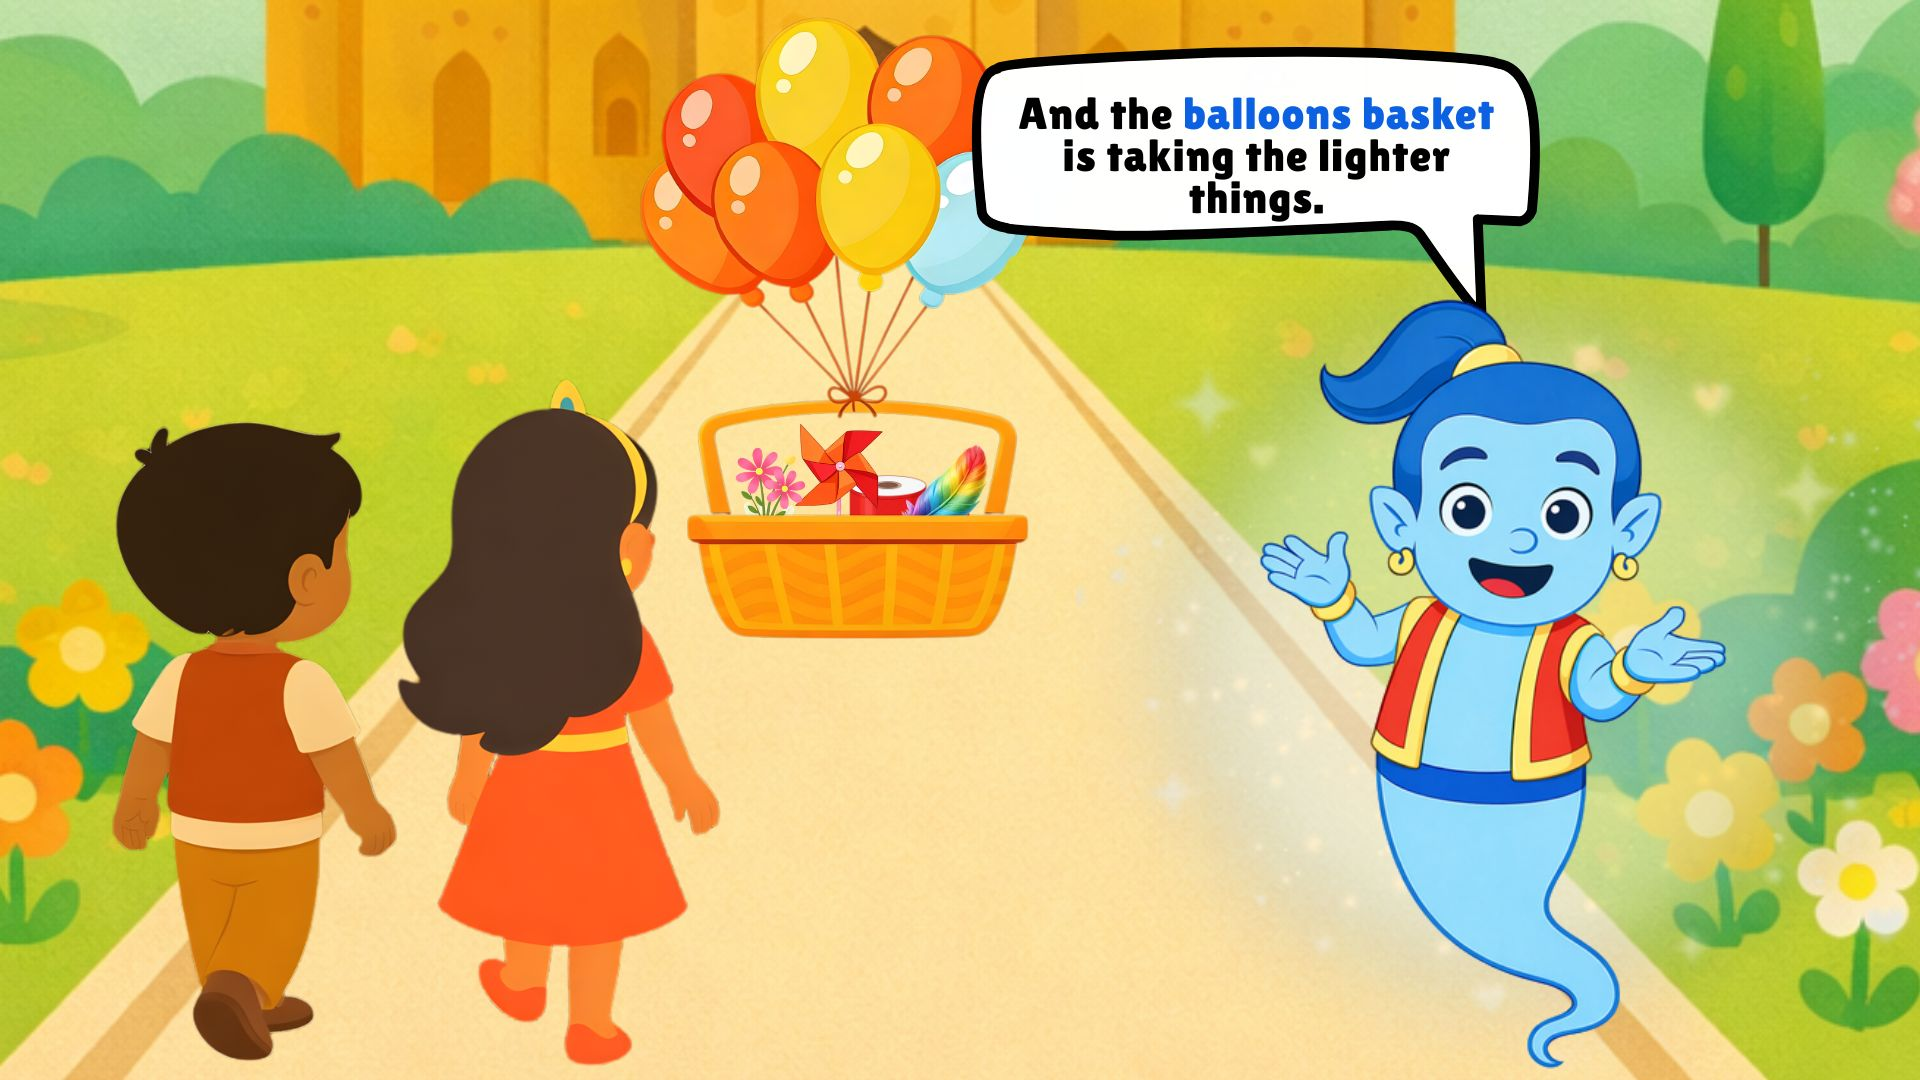
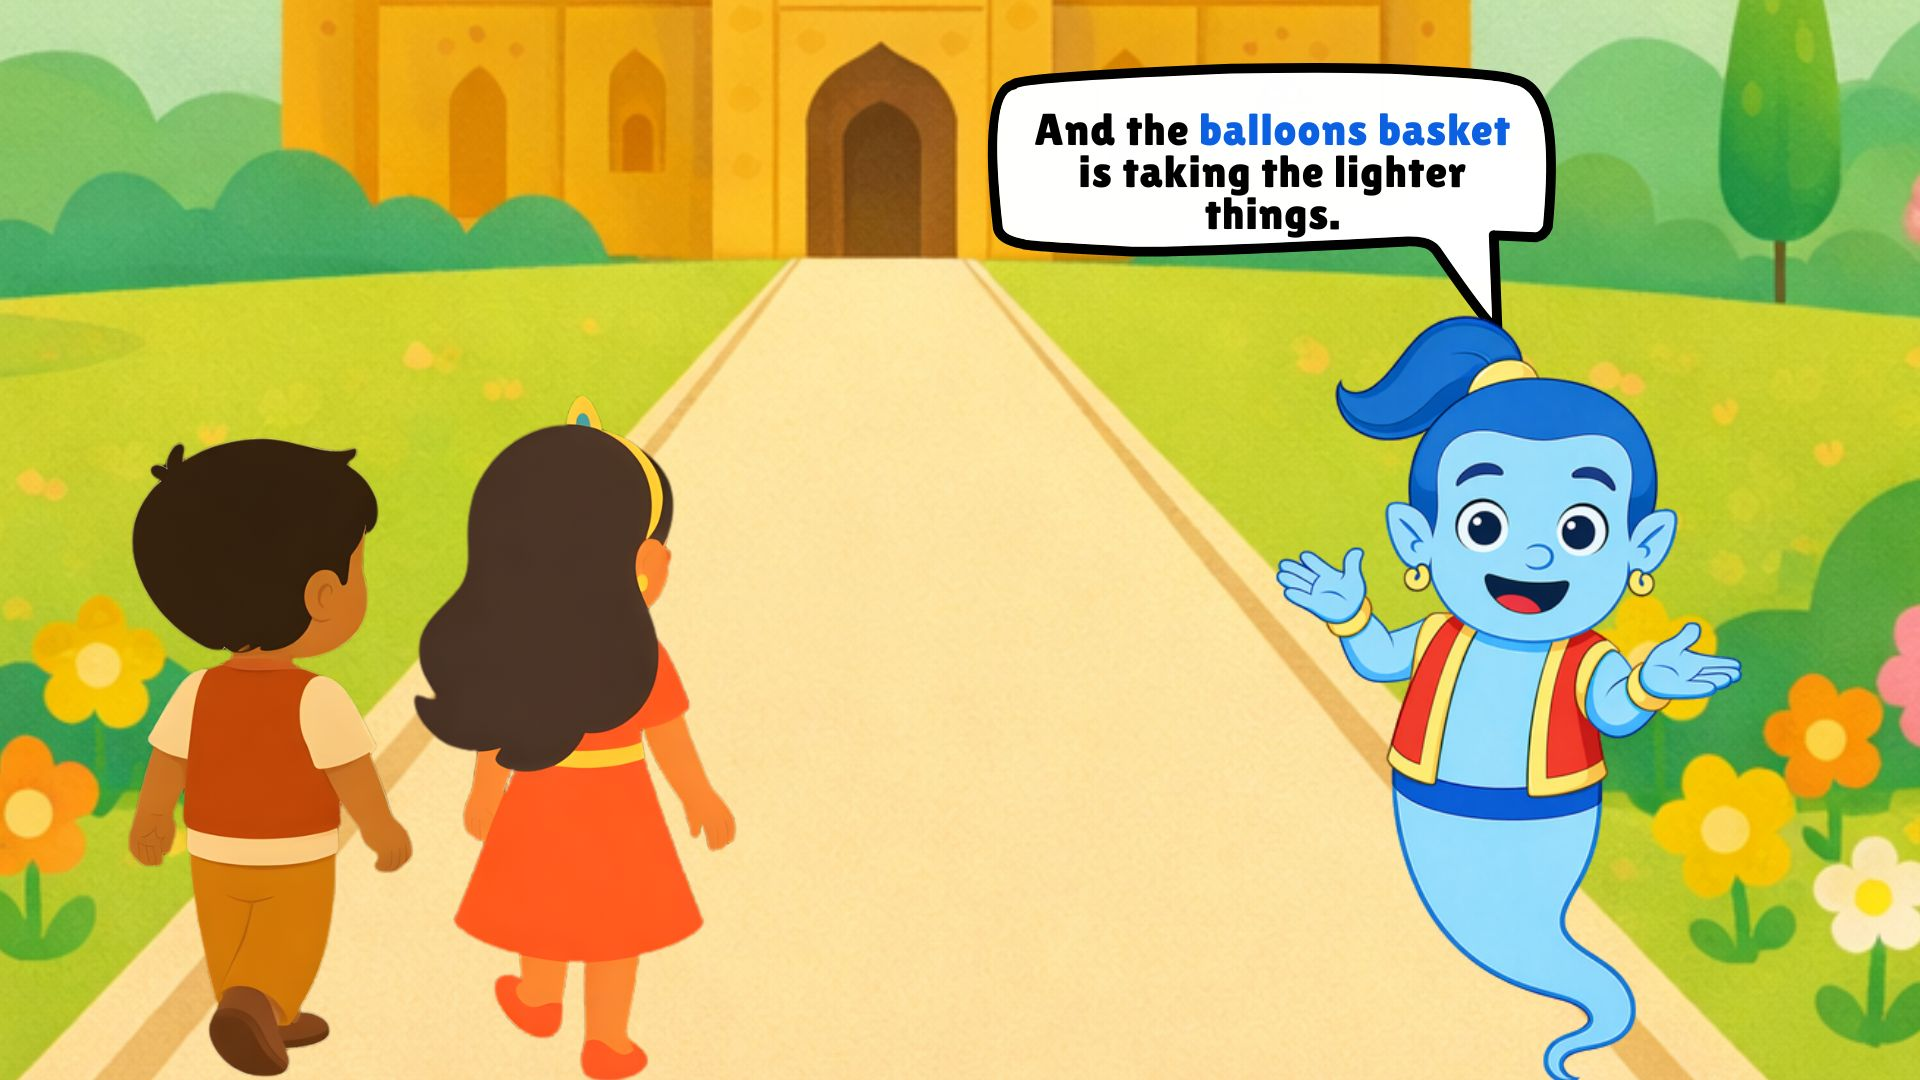
feat: add wagon ride and balloon float animations with corresponding styles and media assets

diff --git a/index.html b/index.html
@@ -364,6 +364,202 @@
       }
     }
 
+    .wagon-ride-layer {
+      position: absolute;
+      inset: 0;
+      z-index: 9;
+      overflow: hidden;
+      pointer-events: none;
+      opacity: 0;
+    }
+
+    .wagon-ride-scene.is-wagon-active .wagon-ride-layer {
+      opacity: 1;
+    }
+
+    .wagon-path-cleanup {
+      position: absolute;
+      display: block;
+      pointer-events: none;
+      z-index: 1;
+      opacity: .9;
+      background:
+        radial-gradient(ellipse at 50% 18%, rgba(255, 241, 177, .9), rgba(255, 224, 135, .56) 62%, rgba(255, 224, 135, 0) 100%),
+        linear-gradient(180deg, rgba(255, 233, 161, .68), rgba(244, 202, 108, .42));
+      filter: blur(8px);
+    }
+
+    .wagon-handle-cleanup {
+      left: 47.1%;
+      top: 8%;
+      width: 4.2%;
+      height: 36%;
+      border-radius: 999px;
+    }
+
+    .wagon-cart-cleanup {
+      left: 34.3%;
+      top: 28%;
+      width: 31.5%;
+      height: 31%;
+      border-radius: 46% 46% 34% 34%;
+    }
+
+    .wagon-ride-img {
+      position: absolute;
+      inset: 0;
+      z-index: 2;
+      width: 100%;
+      height: 100%;
+      object-fit: cover;
+      object-position: center;
+      opacity: 1;
+      transform: translate3d(0, 0, 0) scale(1);
+      transform-origin: 50% 13%;
+      will-change: transform, opacity, filter;
+      animation: none;
+    }
+
+    .wagon-ride-scene.is-wagon-active .wagon-ride-img {
+      animation: wagonPathRide 7.2s cubic-bezier(.38, .02, .28, 1) forwards;
+    }
+
+    @keyframes wagonPathRide {
+      0% {
+        opacity: 1;
+        filter: drop-shadow(0 12px 10px rgba(86, 50, 0, .18));
+        transform: translate3d(0, 0, 0) scale(1);
+      }
+
+      18% {
+        opacity: 1;
+        transform: translate3d(.2%, -1.8%, 0) scale(.92);
+      }
+
+      58% {
+        opacity: 1;
+        filter: drop-shadow(0 8px 7px rgba(86, 50, 0, .12));
+        transform: translate3d(.3%, -7%, 0) scale(.52);
+      }
+
+      82% {
+        opacity: .72;
+        transform: translate3d(.2%, -11%, 0) scale(.28);
+      }
+
+      100% {
+        opacity: 0;
+        filter: drop-shadow(0 0 0 rgba(86, 50, 0, 0));
+        transform: translate3d(.1%, -13%, 0) scale(.16);
+      }
+    }
+
+    @media (prefers-reduced-motion: reduce) {
+      .wagon-ride-scene.is-wagon-active .wagon-ride-img {
+        animation-duration: .01ms;
+      }
+    }
+
+    .balloon-float-layer {
+      position: absolute;
+      inset: 0;
+      z-index: 9;
+      overflow: hidden;
+      pointer-events: none;
+      opacity: 0;
+    }
+
+    .balloon-float-scene.is-balloon-active .balloon-float-layer {
+      opacity: 1;
+    }
+
+    .balloon-float-cleanup {
+      position: absolute;
+      display: block;
+      z-index: 1;
+      pointer-events: none;
+      opacity: .9;
+      filter: blur(10px);
+    }
+
+    .balloon-float-cleanup.castle {
+      left: 31.8%;
+      top: 1.5%;
+      width: 32.5%;
+      height: 38%;
+      border-radius: 48%;
+      background:
+        radial-gradient(ellipse at 52% 22%, rgba(247, 183, 38, .64), rgba(218, 151, 31, .48) 48%, rgba(218, 151, 31, 0) 78%),
+        linear-gradient(90deg, rgba(121, 195, 93, .18), rgba(236, 172, 45, .42) 28%, rgba(239, 177, 47, .46) 68%, rgba(106, 184, 91, .18));
+    }
+
+    .balloon-float-cleanup.path {
+      left: 35.4%;
+      top: 33%;
+      width: 27.5%;
+      height: 32%;
+      border-radius: 46% 46% 35% 35%;
+      background:
+        radial-gradient(ellipse at 50% 38%, rgba(255, 235, 169, .92), rgba(255, 218, 122, .55) 62%, rgba(255, 218, 122, 0) 100%),
+        linear-gradient(180deg, rgba(255, 238, 181, .72), rgba(246, 203, 105, .38));
+      filter: blur(8px);
+    }
+
+    .balloon-float-img {
+      position: absolute;
+      inset: 0;
+      z-index: 2;
+      width: 100%;
+      height: 100%;
+      object-fit: cover;
+      object-position: center;
+      opacity: 1;
+      transform: translate3d(0, 0, 0) scale(1) rotate(0deg);
+      transform-origin: 50% 42%;
+      will-change: transform, opacity, filter;
+      animation: none;
+    }
+
+    .balloon-float-scene.is-balloon-active .balloon-float-img {
+      animation: balloonFloatAway 8.8s cubic-bezier(.22, .02, .18, 1) forwards;
+    }
+
+    @keyframes balloonFloatAway {
+      0% {
+        opacity: 1;
+        filter: drop-shadow(0 14px 12px rgba(75, 48, 0, .14));
+        transform: translate3d(0, 0, 0) scale(1) rotate(0deg);
+      }
+
+      20% {
+        opacity: 1;
+        transform: translate3d(-.35%, -4%, 0) scale(.94) rotate(-.7deg);
+      }
+
+      48% {
+        opacity: 1;
+        filter: drop-shadow(0 9px 8px rgba(75, 48, 0, .1));
+        transform: translate3d(.45%, -15%, 0) scale(.76) rotate(.8deg);
+      }
+
+      78% {
+        opacity: .78;
+        transform: translate3d(-.8%, -31%, 0) scale(.52) rotate(-.5deg);
+      }
+
+      100% {
+        opacity: 0;
+        filter: drop-shadow(0 0 0 rgba(75, 48, 0, 0));
+        transform: translate3d(-1.2%, -47%, 0) scale(.34) rotate(.3deg);
+      }
+    }
+
+    @media (prefers-reduced-motion: reduce) {
+      .balloon-float-scene.is-balloon-active .balloon-float-img {
+        animation-duration: .01ms;
+      }
+    }
+
     .flipbook-viewport .shadow {
       transition: box-shadow .5s;
       box-shadow: 0 0 20px #bbb
@@ -5853,8 +6049,8 @@
         { image: "media/28LetusOpenThem.jpg",                                audio: "audios/LetusOpenThem.mp3" },
         { image: "media/29Yes!LEtsUsStart.jpg",                              audio: "audios/YesLetUsStart.mp3" },
         { image: "media/30.jpg",                                             audio: "audios/UdidITushortedAllTheItem.mp3" },
-        { image: "media/31TheRedWAgonISTakingTheHeavierThingsINside.jpg",    audio: "audios/heRedWagonTakingTheHeavierThingsInside.mp3" },
-        { image: "media/32AndtheBalloonsBasketIsTakingTheLighterThings.jpg", audio: "audios/AndtheBalloonBasketTakingTheLightestTHings.mp3" },
+        { image: "media/31TheRedWAgonISTakingTheHeavierThingsINside.jpg",    audio: "audios/heRedWagonTakingTheHeavierThingsInside.mp3", wagonRide: true },
+        { image: "media/32AndtheBalloonsBasketIsTakingTheLighterThings.jpg", audio: "audios/AndtheBalloonBasketTakingTheLightestTHings.mp3", balloonFloat: true },
         { image: "media/33WesavedTheBloonFest.jpg",                          audio: "audios/WeSavedTheBloomFest.mp3" },
         { image: "media/34.jpg",                                             audio: "audios/SeeUnextTime.mp3" }
       ]
@@ -5901,6 +6097,22 @@
           + '"></i>';
       });
       return html + '</div>';
+    }
+
+    function buildWagonRide() {
+      return '<div class="wagon-ride-layer" aria-hidden="true">'
+        + '<span class="wagon-path-cleanup wagon-handle-cleanup"></span>'
+        + '<span class="wagon-path-cleanup wagon-cart-cleanup"></span>'
+        + '<img class="wagon-ride-img" src="media/CartWithThings.png" alt="">'
+        + '</div>';
+    }
+
+    function buildBalloonFloat() {
+      return '<div class="balloon-float-layer" aria-hidden="true">'
+        + '<span class="balloon-float-cleanup castle"></span>'
+        + '<span class="balloon-float-cleanup path"></span>'
+        + '<img class="balloon-float-img" src="media/BalloonWithOBjS.png" alt="">'
+        + '</div>';
     }
 
     (function () {
@@ -5980,6 +6192,14 @@
 
         if (page.sparkles) {
           $p.append(buildMagicSparkles());
+        }
+
+        if (page.wagonRide) {
+          $p.addClass('wagon-ride-scene').append(buildWagonRide());
+        }
+
+        if (page.balloonFloat) {
+          $p.addClass('balloon-float-scene').append(buildBalloonFloat());
         }
 
         $fb.append($p);
@@ -6134,6 +6354,20 @@
       var si = Math.max(0, Math.min(p - 2, TOTAL - 1));
       curSpread = si;
       $('#pgCnt').text('');
+    }
+
+    function restartSceneMotion(si) {
+      $('.wagon-ride-scene').removeClass('is-wagon-active');
+      $('.balloon-float-scene').removeClass('is-balloon-active');
+      if (si < 0 || si >= TOTAL) return;
+      var scene = STORY.pages[si];
+      if (!scene) return;
+
+      var $page = $('#flipbook .page[data-si="' + si + '"]');
+      if (!$page.length) return;
+      void $page[0].offsetWidth;
+      if (scene.wagonRide) $page.addClass('is-wagon-active');
+      if (scene.balloonFloat) $page.addClass('is-balloon-active');
     }
 
     /* ── Balloons ── */
@@ -6436,6 +6670,8 @@
             $('.count-page-overlay').remove();
             $('.balloon-container').remove();
             $('.confetti-container').remove();
+            $('.wagon-ride-scene').removeClass('is-wagon-active');
+            $('.balloon-float-scene').removeClass('is-balloon-active');
             /* Stop scene audio on page change */
             if (window.__currentSceneAudio) {
               try { window.__currentSceneAudio.pause(); window.__currentSceneAudio.src = ''; } catch (e) { }
@@ -6455,6 +6691,7 @@
             if (curSpread < 0) return;
             var scene = STORY.pages[curSpread];
             if (!scene) return;
+            restartSceneMotion(curSpread);
             if (scene.video) {
               var vid = $('#flipbook .page[data-si="' + curSpread + '"] video').get(0);
               if (vid) {